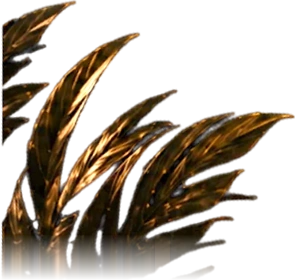
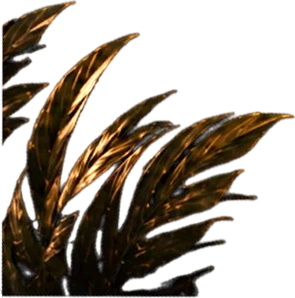
Como foi: folhas da arte, só 2 por lado, corte escondido fora da tela (sem degradê/efeitos)
Claude-Session: https://claude.ai/code/session_018srAHrESznkWRHoACDe2BQ

diff --git a/src/app/globals.css b/src/app/globals.css
@@ -253,33 +253,19 @@ html, body { overflow-x: hidden; overflow-x: clip; }
 /* ---------- Página "Como foi" ---------- */
 .cf-folhas { position: fixed; inset: 0; z-index: 40; overflow: hidden; pointer-events: none; }
 .cf-camada { position: absolute; inset: 0; will-change: transform; }
-.cf-brilho { position: absolute; top: 0; bottom: 0; width: clamp(150px, 34vw, 560px); animation: cfBrilho 2.4s ease-out both; }
-.cf-brilho-e { left: 0; background:
-  radial-gradient(ellipse 85% 34% at 0% 6%, rgba(201,151,90,.26), transparent 70%),
-  radial-gradient(ellipse 80% 30% at 0% 94%, rgba(201,151,90,.2), transparent 70%),
-  linear-gradient(to right, rgba(0,0,0,.78), rgba(0,0,0,.4) 45%, transparent); }
-.cf-brilho-d { right: 0; background:
-  radial-gradient(ellipse 85% 34% at 100% 8%, rgba(201,151,90,.26), transparent 70%),
-  radial-gradient(ellipse 80% 30% at 100% 92%, rgba(201,151,90,.2), transparent 70%),
-  linear-gradient(to left, rgba(0,0,0,.78), rgba(0,0,0,.4) 45%, transparent); }
-/* Tamanho: a folha tem proporção 3:4 (largura = 0,7535 da altura). */
-.cf-ia { --h: 62vh; position: absolute; height: var(--h); aspect-ratio: 1507 / 2000; animation: cfBrotar 2s cubic-bezier(.2,.7,.2,1) both; animation-delay: var(--entrada); }
-.cf-ia-baixo { --h: 46vh; }
-.cf-ia-e { left: -3.5vw; } .cf-ia-d { right: -3.5vw; }
-.cf-ia-topo { top: -5vh; } .cf-ia-baixo { top: 66vh; }
-.cf-ia-bal { width: 100%; height: 100%; opacity: .5; animation: cfBalanca var(--dur) ease-in-out var(--atraso) infinite; will-change: transform; filter: drop-shadow(0 8px 14px rgba(0,0,0,.45)) drop-shadow(0 0 22px rgba(201,151,90,.12)); }
-/* o pé da folha fica na borda: a de cima gira a partir de baixo-esquerda; a de baixo (de cabeça para baixo) a partir de cima */
-.cf-ia-e.cf-ia-topo .cf-ia-bal, .cf-ia-e.cf-ia-topo { transform-origin: 0% 88%; }
-.cf-ia-d.cf-ia-topo .cf-ia-bal, .cf-ia-d.cf-ia-topo { transform-origin: 100% 88%; }
-.cf-ia-e.cf-ia-baixo .cf-ia-bal, .cf-ia-e.cf-ia-baixo { transform-origin: 0% 12%; }
-.cf-ia-d.cf-ia-baixo .cf-ia-bal, .cf-ia-d.cf-ia-baixo { transform-origin: 100% 12%; }
+.cf-ia { position: absolute; animation: cfBrotar 2s cubic-bezier(.2,.7,.2,1) both; animation-delay: var(--entrada); }
+.cf-ia-bal { animation: cfBalanca var(--dur) ease-in-out var(--atraso) infinite; will-change: transform; filter: drop-shadow(0 6px 12px rgba(0,0,0,.4)); }
+.cf-ia-e { left: -8px; } .cf-ia-d { right: -8px; }
+.cf-ia-e, .cf-ia-e .cf-ia-bal { transform-origin: 0% 50%; } .cf-ia-d, .cf-ia-d .cf-ia-bal { transform-origin: 100% 50%; }
 .cf-ia-d img { transform: scaleX(-1); }
-.cf-ia-baixo img { transform: scaleY(-1); }
-.cf-ia-d.cf-ia-baixo img { transform: scale(-1, -1); }
-@media (max-width: 767px) { .cf-ia { --h: 29vh; } .cf-ia-topo { top: 8vh; } .cf-ia-baixo { --h: 20vh; top: 82vh; } .cf-ia-e { left: -12vw; } .cf-ia-d { right: -12vw; } }
-@keyframes cfBrilho { from { opacity: 0; } to { opacity: 1; } }
-@keyframes cfBrotar { from { opacity: 0; transform: rotate(calc(var(--dir) * 22deg)) scale(.6); } to { opacity: 1; transform: none; } }
-@keyframes cfBalanca { 0%, 100% { transform: rotate(calc(var(--amp) * -1)); } 50% { transform: rotate(var(--amp)); } }
+/* de cima: conjunto D, encostado na lateral */
+.cf-ia-e.cf-p-d, .cf-ia-d.cf-p-d { top: 12vh; width: clamp(96px, 14vw, 240px); }
+/* de baixo: conjunto A, com o corte de baixo escondido abaixo da tela */
+.cf-ia-e.cf-p-a, .cf-ia-d.cf-p-a { bottom: -22px; width: clamp(116px, 18vw, 310px); }
+.cf-ia-e.cf-p-a, .cf-ia-e.cf-p-a .cf-ia-bal { transform-origin: 0% 90%; } .cf-ia-d.cf-p-a, .cf-ia-d.cf-p-a .cf-ia-bal { transform-origin: 100% 90%; }
+@media (max-width: 767px) { .cf-ia-e.cf-p-d, .cf-ia-d.cf-p-d { top: 11vh; width: 26vw; } .cf-ia-e.cf-p-a, .cf-ia-d.cf-p-a { width: 33vw; bottom: -18px; } }
+@keyframes cfBrotar { from { opacity: 0; transform: rotate(calc(var(--dir) * 18deg)) scale(.65); } to { opacity: 1; transform: none; } }
+@keyframes cfBalanca { 0%, 100% { transform: rotate(-1.4deg); } 50% { transform: rotate(1.4deg); } }
 @keyframes cfLetra { from { opacity: 0; transform: translateY(26px) scale(1.06); filter: blur(10px); } to { opacity: 1; transform: none; filter: blur(0); } }
 .cf-letra { display: inline-block; animation: cfLetra 1.1s cubic-bezier(.2,.7,.2,1) both; }
 .cf-trilho { scrollbar-width: none; }

diff --git a/src/components/como-foi/Folhas.tsx b/src/components/como-foi/Folhas.tsx
@@ -2,15 +2,15 @@
 
 import { useEffect, useRef } from "react";
 
-// Folha dourada nos cantos (imagem com fundo transparente). Cada uma é uma peça separada:
-// entra "brotando" e balança no próprio ritmo, girando a partir de onde encosta na borda da tela.
-// Ao rolar a página, as folhas deslizam de leve. As duas de cima e as duas de baixo são espelhadas.
-type Folha = { lado: "e" | "d"; pos: "topo" | "baixo"; dur: number; atraso: number; amp: number; entrada: number };
+// Folhas douradas da arte da ORBE, só duas por lado (as outras poluíam). O corte reto de cada conjunto fica
+// escondido para fora da tela, então não aparece linha nenhuma. Entram "brotando" e balançam de leve.
+// A de cima (d) fica encostada na borda esquerda/direita; a de baixo (a) no canto inferior.
+type Folha = { lado: "e" | "d"; peca: "d" | "a"; dur: number; atraso: number; entrada: number };
 const FOLHAS: Folha[] = [
-  { lado: "e", pos: "topo", dur: 7.4, atraso: -1.2, amp: 2.2, entrada: 0.15 },
-  { lado: "d", pos: "topo", dur: 8.6, atraso: -4.1, amp: 2.0, entrada: 0.35 },
-  { lado: "e", pos: "baixo", dur: 8.1, atraso: -2.6, amp: 2.6, entrada: 0.55 },
-  { lado: "d", pos: "baixo", dur: 6.9, atraso: -5.3, amp: 2.4, entrada: 0.75 },
+  { lado: "e", peca: "d", dur: 8.2, atraso: -1.5, entrada: 0.2 },
+  { lado: "d", peca: "d", dur: 9.1, atraso: -4.6, entrada: 0.4 },
+  { lado: "e", peca: "a", dur: 9.4, atraso: -2.8, entrada: 0.6 },
+  { lado: "d", peca: "a", dur: 8.0, atraso: -5.7, entrada: 0.8 },
 ];
 
 export default function Folhas() {
@@ -22,7 +22,7 @@ export default function Folhas() {
     const rolar = () => {
       cancelAnimationFrame(raf);
       raf = requestAnimationFrame(() => {
-        if (camada.current) camada.current.style.transform = `translate3d(0,${-Math.min(window.scrollY * 0.06, 90)}px,0)`;
+        if (camada.current) camada.current.style.transform = `translate3d(0,${-Math.min(window.scrollY * 0.04, 60)}px,0)`;
       });
     };
     rolar();
@@ -32,18 +32,16 @@ export default function Folhas() {
 
   return (
     <div className="cf-folhas" aria-hidden="true">
-      <div className="cf-brilho cf-brilho-e" />
-      <div className="cf-brilho cf-brilho-d" />
       <div ref={camada} className="cf-camada">
         {FOLHAS.map((f, i) => (
           <div
             key={i}
-            className={`cf-ia cf-ia-${f.lado} cf-ia-${f.pos}`}
-            style={{ "--dur": `${f.dur}s`, "--atraso": `${f.atraso}s`, "--amp": `${f.amp}deg`, "--entrada": `${f.entrada}s`, "--dir": f.lado === "e" ? -1 : 1 } as React.CSSProperties}
+            className={`cf-ia cf-ia-${f.lado} cf-p-${f.peca}`}
+            style={{ "--dur": `${f.dur}s`, "--atraso": `${f.atraso}s`, "--entrada": `${f.entrada}s`, "--dir": f.lado === "e" ? -1 : 1 } as React.CSSProperties}
           >
             <div className="cf-ia-bal">
               {/* eslint-disable-next-line @next/next/no-img-element */}
-              <img src="/como-foi/folha-ia.webp" alt="" draggable={false} className="block h-full w-full" />
+              <img src={`/como-foi/folhas/${f.peca}.webp`} alt="" draggable={false} className="block h-auto w-full" />
             </div>
           </div>
         ))}
